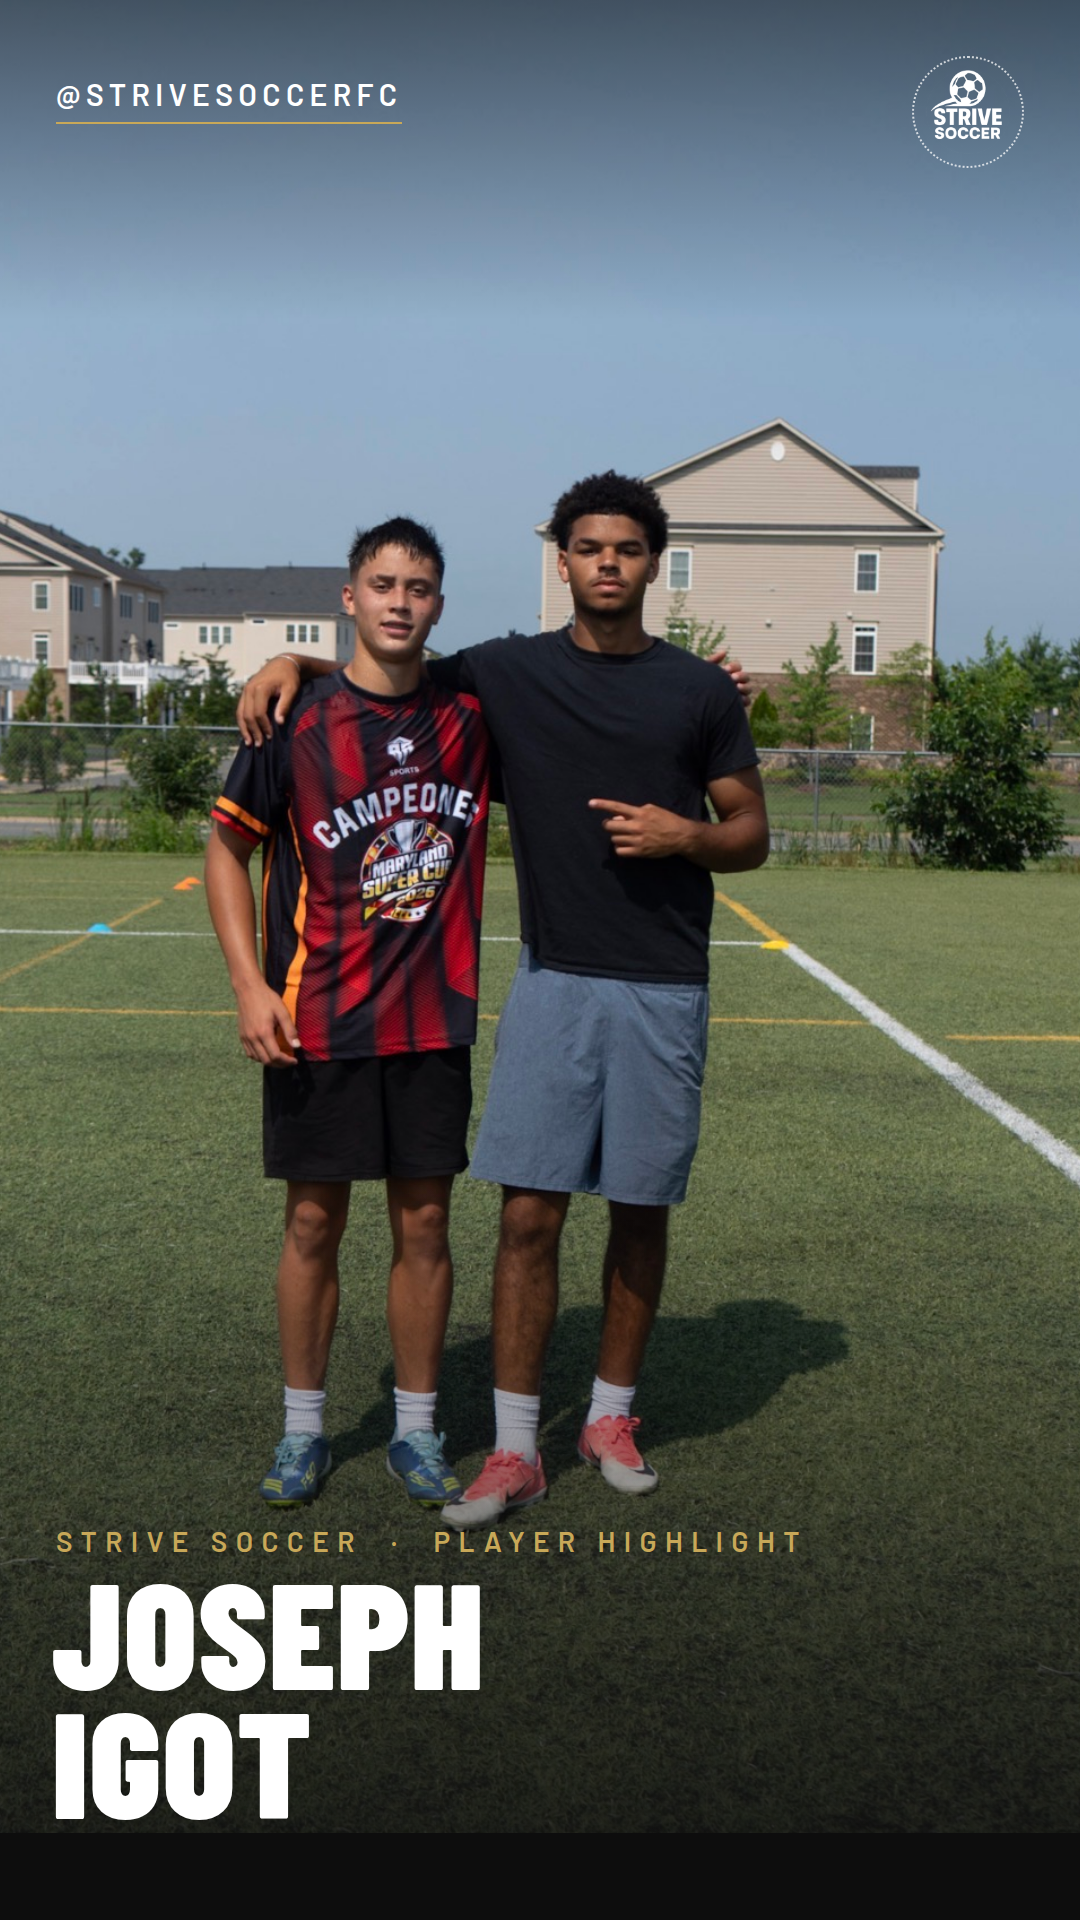
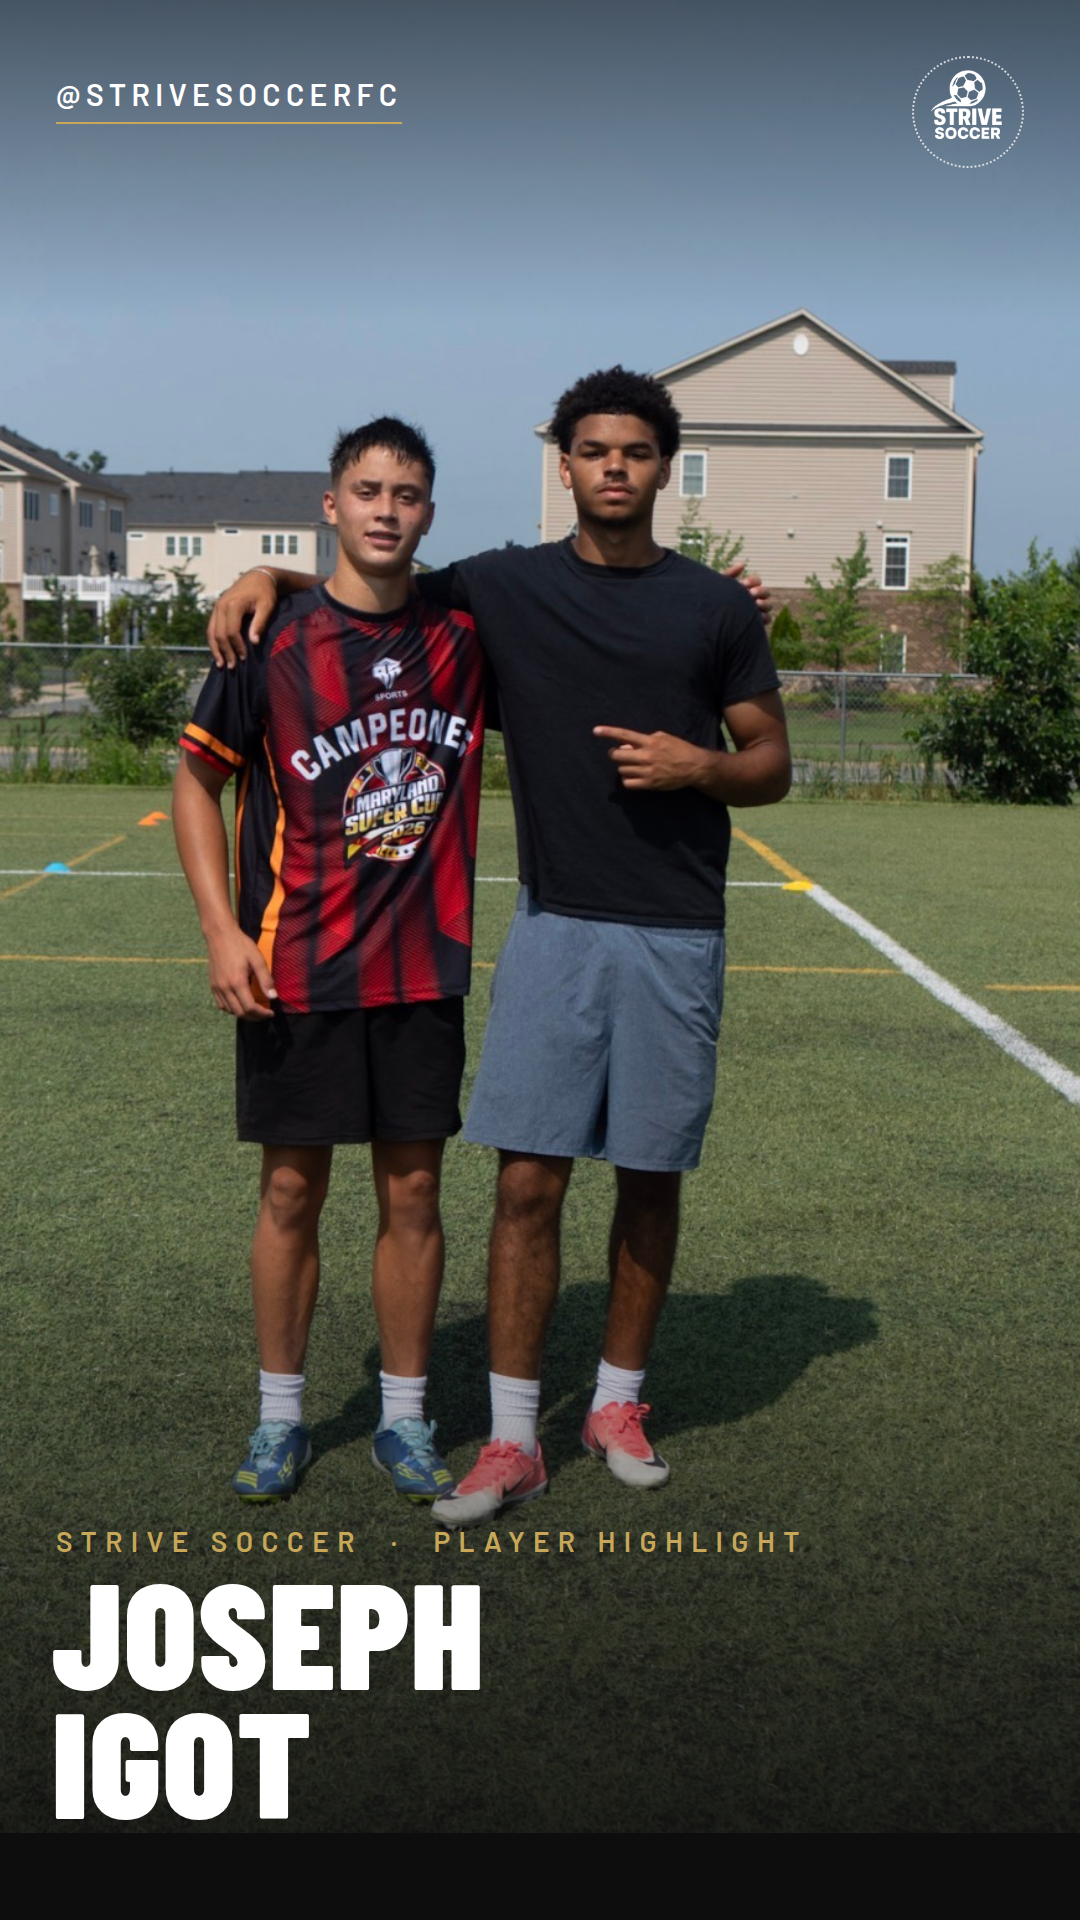
Joseph Igot cover: crop the sky, tighten the gradient
Claude-Session: https://claude.ai/code/session_011JsCTTjCbUkHbTuWTKQSXJ

diff --git a/marketing/highlights/joseph-igot/cover.html b/marketing/highlights/joseph-igot/cover.html
@@ -5,9 +5,9 @@
 *{margin:0;padding:0;box-sizing:border-box}
 html,body{width:1080px;height:1920px;background:#0d0d0d;overflow:hidden}
 .frame{position:relative;width:1080px;height:1920px;background:#0d0d0d;overflow:hidden}
-.frame>img{position:absolute;left:0;top:0;width:1080px;height:1920px;object-fit:cover;object-position:50% 40%;display:block}
-.shade{position:absolute;left:0;right:0;bottom:0;height:760px;
-  background:linear-gradient(to top,rgba(13,13,13,.88) 0%,rgba(13,13,13,.55) 45%,rgba(13,13,13,0) 100%)}
+.frame>img{position:absolute;left:-60px;top:-150px;width:1200px;height:auto;display:block}
+.shade{position:absolute;left:0;right:0;bottom:0;height:720px;
+  background:linear-gradient(to top,rgba(13,13,13,.92) 0%,rgba(13,13,13,.6) 40%,rgba(13,13,13,0) 100%)}
 .top{position:absolute;left:0;right:0;top:0;height:320px;
   background:linear-gradient(to bottom,rgba(13,13,13,.55) 0%,rgba(13,13,13,0) 100%)}
 .handle{position:absolute;left:56px;top:76px;font-family:'Barlow';font-weight:600;font-size:30px;
